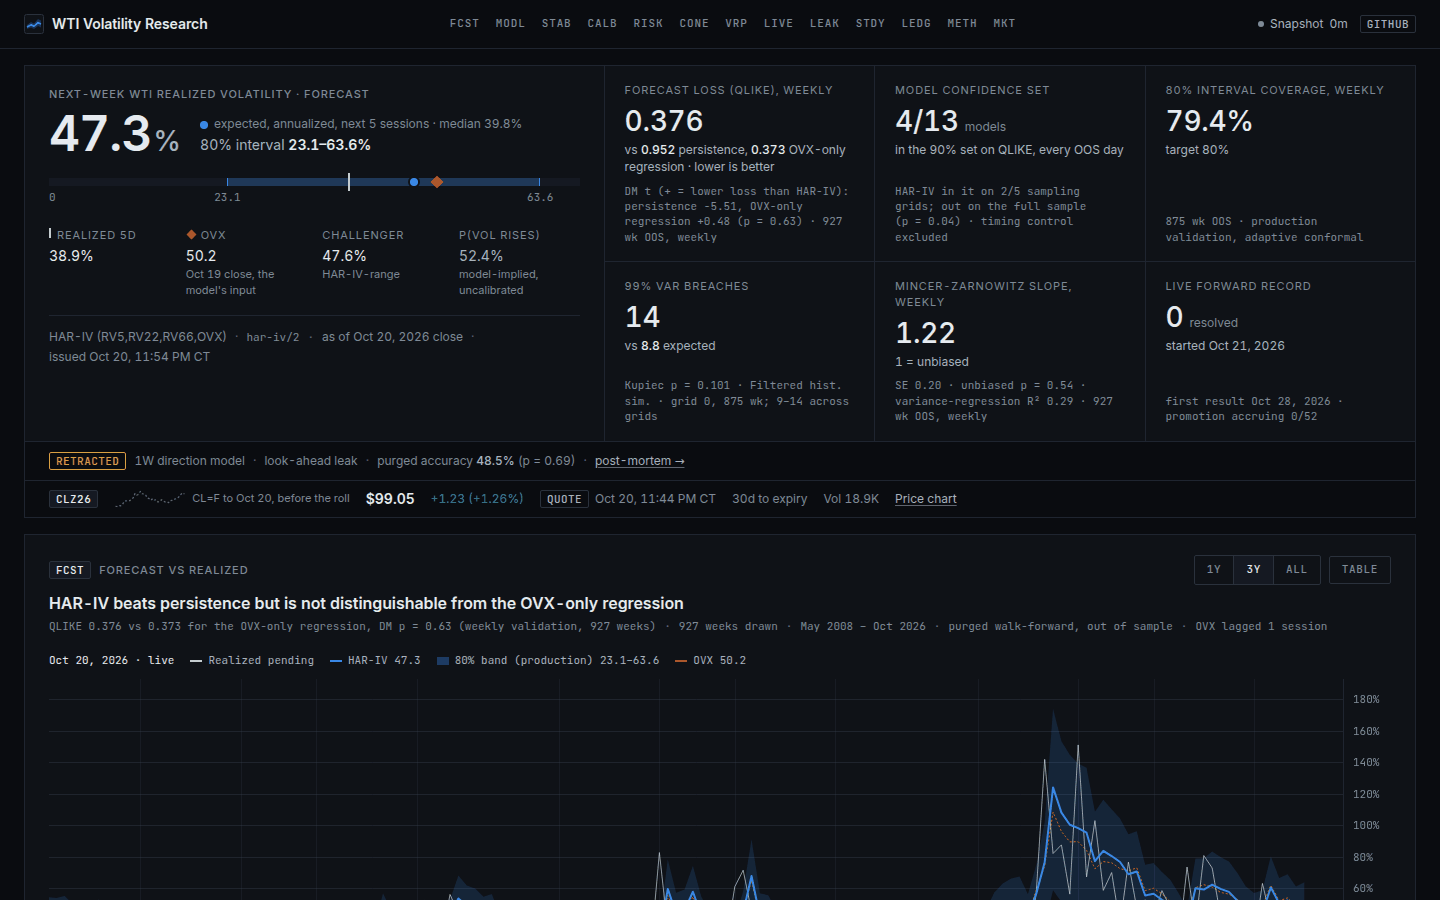
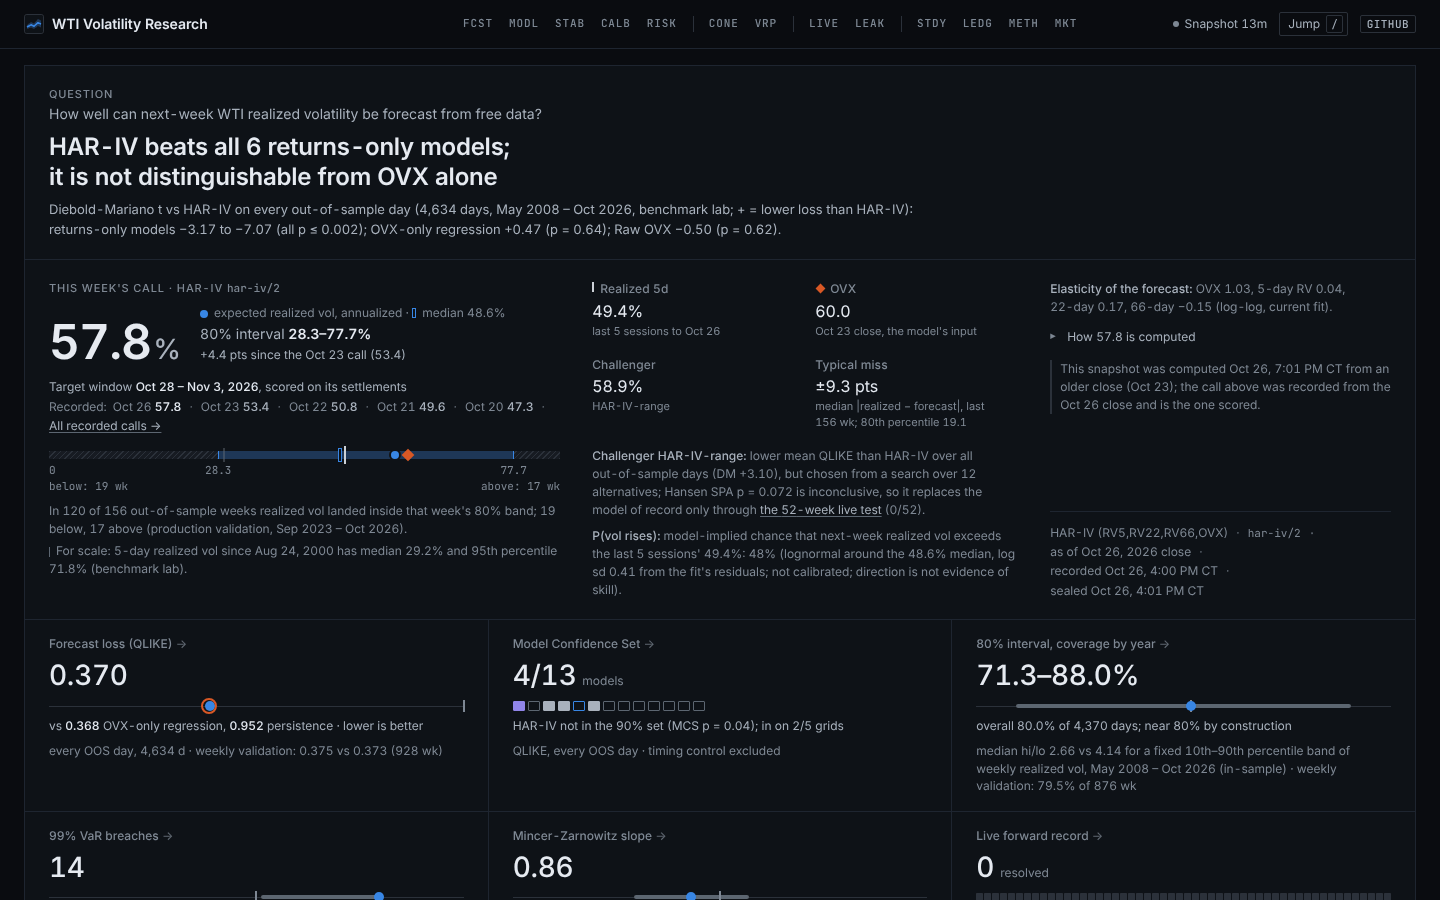
Figures: the dashboard screenshot and share image from the new UI
docs/figures/dashboard.png is the first screen at 1440x900 of the
current build (verdict lede, this week's call, the tiles), rendered from
the Oct 27 00:01 UTC snapshot with the clock pinned to 00:15 UTC, en-US,
America/Chicago.

public/og-image.png is the FCST chart (three years, log scale) under the
title, in the site's tokens and fonts. Its text quotes no statistic: for
this image only, the chart was drawn without its last-value numbers and
its largest-miss annotation, so the axis badges name the series and
nothing in it changes with a refresh. 1200x630 PNG, 152 KB.

The og/twitter alt text describes what the image now draws: points for
realized volatility, the forecast with its 80% band, and OVX.

Claude-Session: https://claude.ai/code/session_01MYRrxEEGgQQ9RxJwF8FskU

diff --git a/index.html b/index.html
@@ -30,7 +30,7 @@
     <meta property="og:image:height" content="630" />
     <meta
       property="og:image:alt"
-      content="WTI Volatility Research: weekly forecasts of next-week WTI realized volatility drawn against what was realized, with the forecast's 80% interval."
+      content="WTI Volatility Research: three years of weekly HAR-IV forecasts of next-week WTI realized volatility with their 80% band, drawn against the realized volatility and OVX on a log scale."
     />
     <meta name="twitter:card" content="summary_large_image" />
     <meta name="twitter:title" content="WTI Volatility Research" />
@@ -41,7 +41,7 @@
     <meta name="twitter:image" content="https://navnoorbawa.github.io/WTI-Crude-Oil-Futures/og-image.png" />
     <meta
       name="twitter:image:alt"
-      content="WTI Volatility Research: weekly forecasts of next-week WTI realized volatility drawn against what was realized, with the forecast's 80% interval."
+      content="WTI Volatility Research: three years of weekly HAR-IV forecasts of next-week WTI realized volatility with their 80% band, drawn against the realized volatility and OVX on a log scale."
     />
   </head>
   <body>
